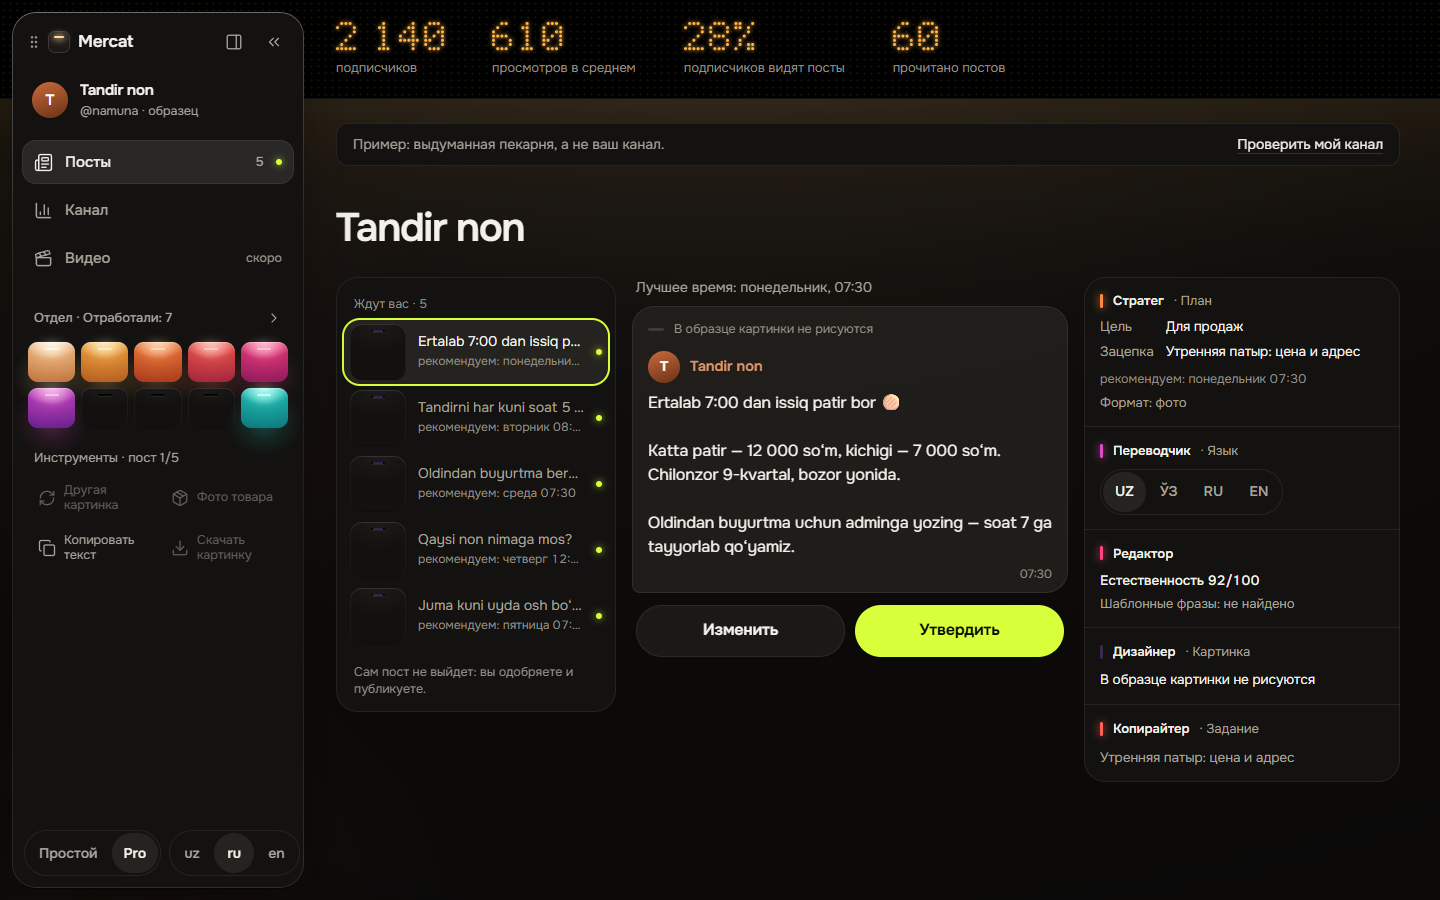
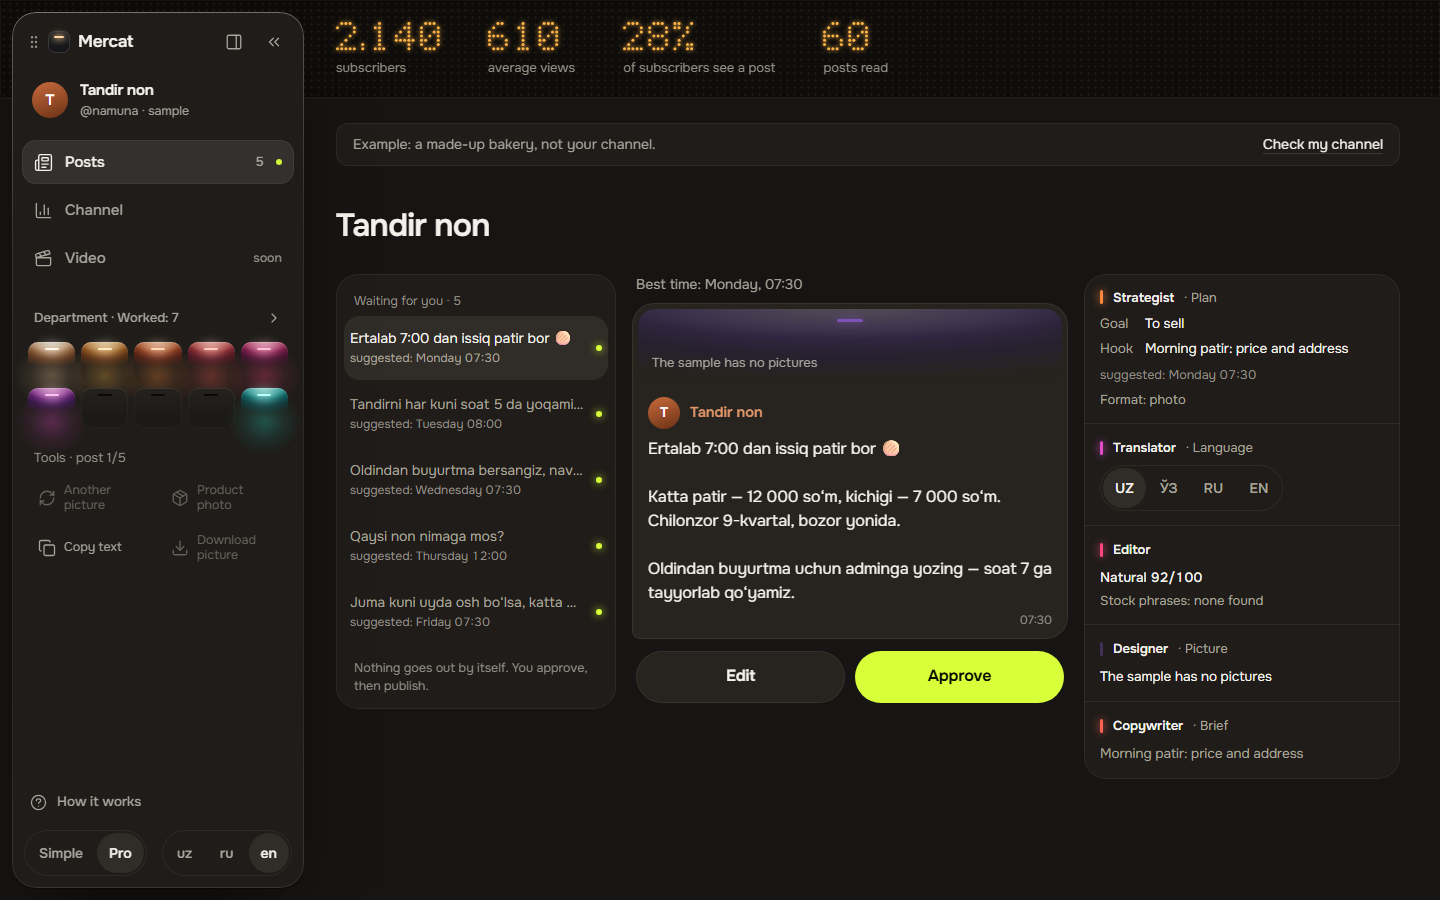
docs(readme): desktop screenshots re-shot from production after the room redesign
Landing at 1440x900 with the lit sample department, and the Studio in Pro on
/studio?mock=1, both in English and on the made-up bakery only. The landing
replaces the old department-at-work shot, which showed the pre-PR #22 look.

diff --git a/README.md b/README.md
@@ -18,15 +18,15 @@
 In a small Tashkent business the marketing department is usually the owner, at night, after closing. Mercat gives them one: ten employees drawn as lamps behind glass. A lamp glows while its employee works and stays lit when the result is ready. Nothing glows for decoration.
 
 <p align="center">
-  <img src="docs/brand/screens/studio-department.png" alt="Desktop Studio: the department at work on the sample bakery, seven lamps lit" width="49%">
-  <img src="docs/brand/screens/studio-posts.png" alt="Desktop Studio in Pro: the queue of five posts, the post preview and the inspector" width="49%">
+  <img src="docs/brand/screens/landing.png" alt="Landing page: the promise, the link field with Start, and the sample bakery's department with seven lamps lit" width="49%">
+  <img src="docs/brand/screens/studio-posts.png" alt="Desktop Studio in Pro on the sample bakery: the channel's numbers on the LED sign, five posts waiting, the post preview with Approve, and the inspector" width="49%">
 </p>
 <p align="center">
   <img src="docs/brand/screens/miniapp-channel.png" alt="Telegram Mini App: the channel's numbers on the amber LED and what to fix" width="24%">
   &nbsp;
   <img src="docs/brand/screens/miniapp-post.png" alt="Telegram Mini App: a post with Edit and Approve" width="24%">
 </p>
-<p align="center"><sub>Screenshots use the built-in sample, a made-up bakery marked "namuna". No client data.</sub></p>
+<p align="center"><sub>Screenshots use the built-in sample, a made-up bakery labelled as a sample. No client data.</sub></p>
 
 ## How it works
 
